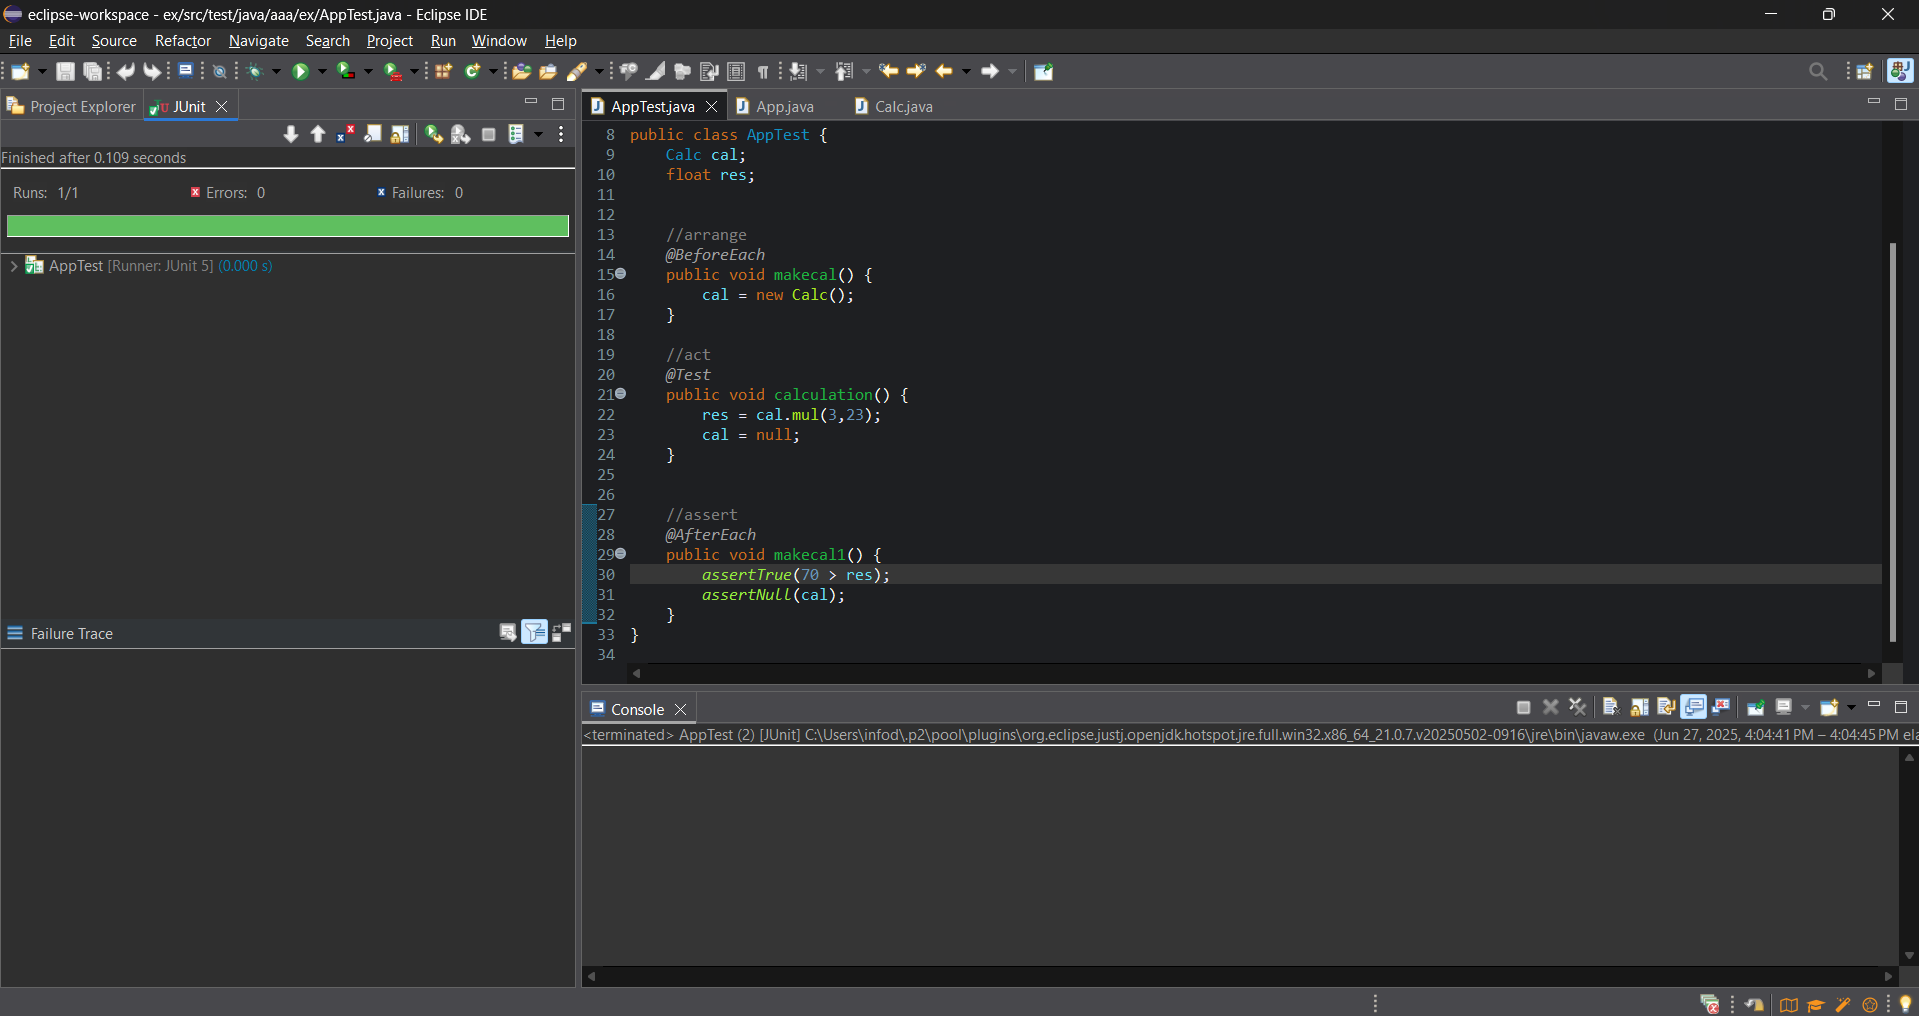
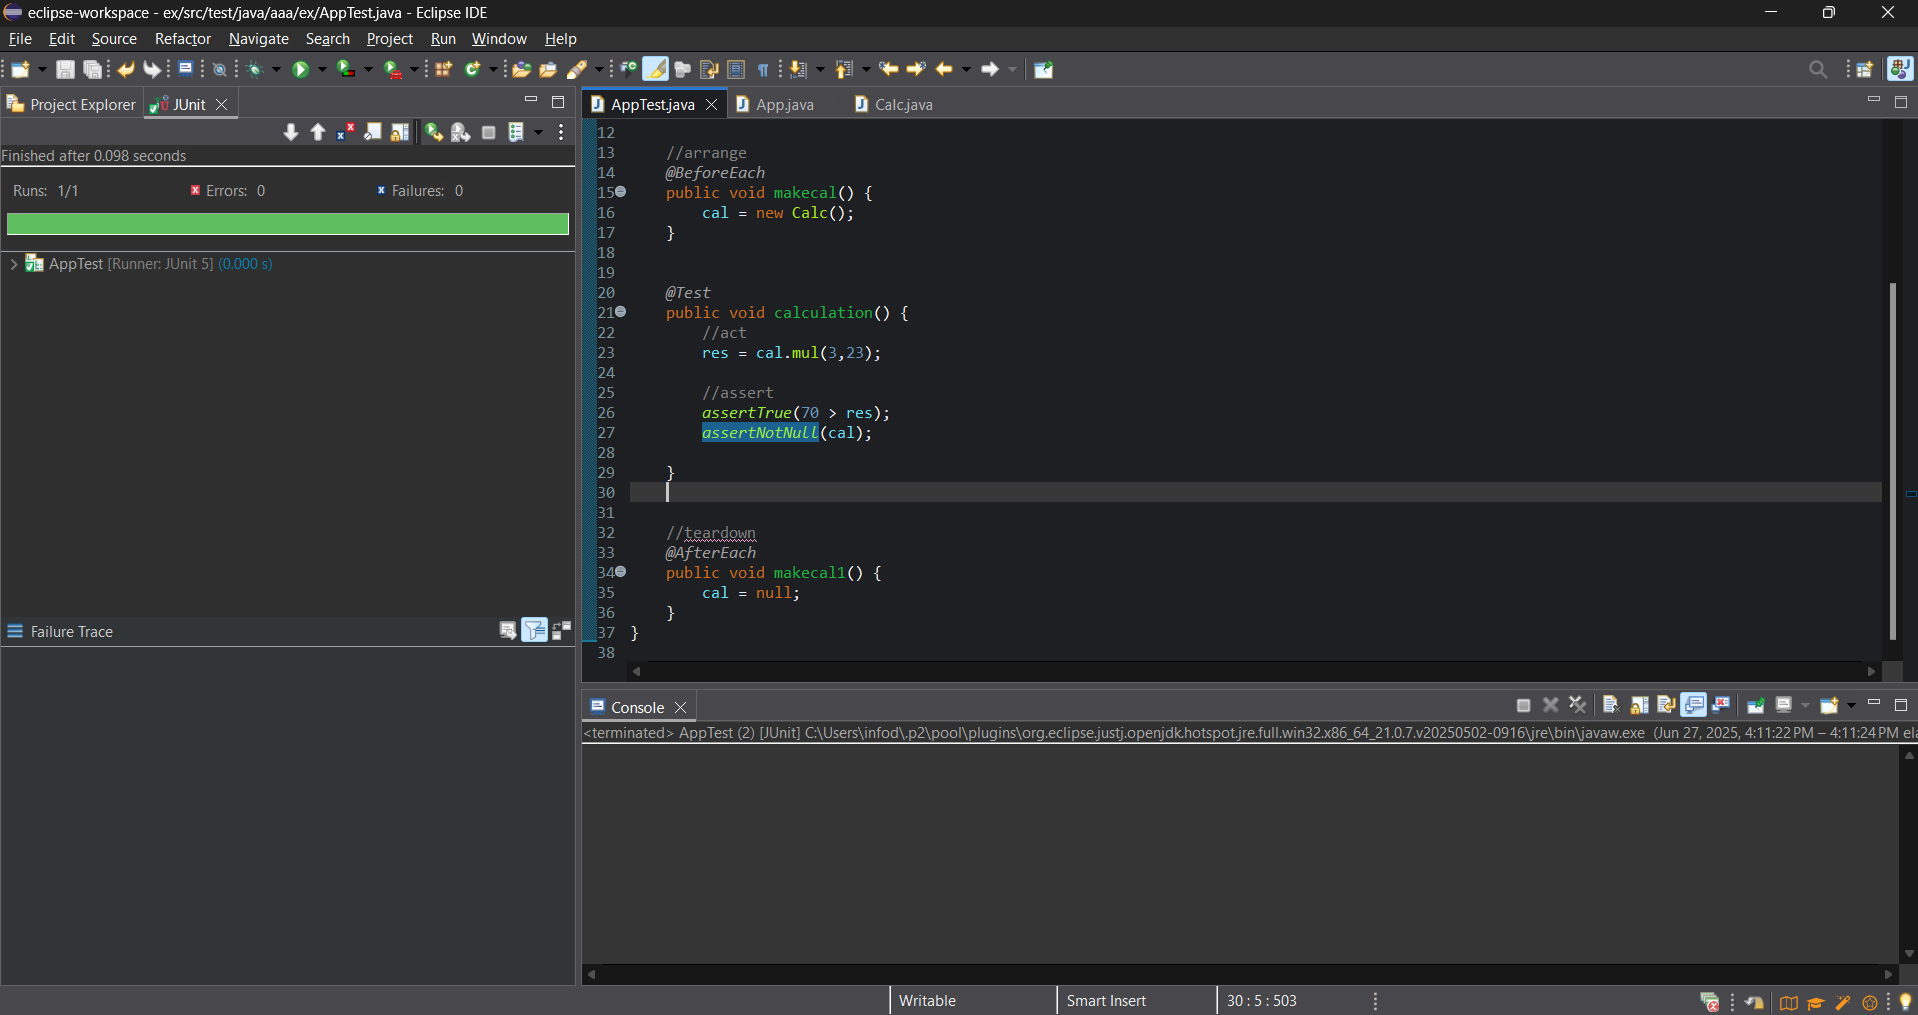
idk2

diff --git a/week2/Mockito/mockandstub/src/test/java/ex/mockandstub/AppTest.java b/week2/Mockito/mockandstub/src/test/java/ex/mockandstub/AppTest.java
@@ -1,0 +1,19 @@
+package ex.mockandstub;
+
+import org.junit.jupiter.api.Test;
+import org.mockito.Mockito;
+import static org.mockito.Mockito.*;
+import static org.junit.jupiter.api.Assertions.*;
+/**
+ * Unit test for simple App.
+ */
+public class AppTest { 
+		 @Test 
+		 public void testExternalApi() { 
+		 ExternalApi mockApi = Mockito.mock(ExternalApi.class); 
+		 when(mockApi.getData()).thenReturn("Mock Data"); 
+		 MyService service = new MyService(mockApi); 
+		 String result = service.fetchData(); 
+		 assertEquals("Mock Data", result); 
+		 } 
+}

diff --git a/week2/JUnit/AAA-pattern/ex/src/test/java/aaa/ex/AppTest.java b/week2/JUnit/AAA-pattern/ex/src/test/java/aaa/ex/AppTest.java
@@ -16,18 +16,22 @@ public class AppTest {
 		cal = new Calc();
 	}
 	
-	//act
+	
     @Test
     public void calculation() {
+    	//act
     	res = cal.mul(3,23);
-    	cal = null;
+    	
+    	//assert
+    	assertTrue(70 > res);
+		assertNotNull(cal);
+    	
     }
     
     
-    //assert
+    //teardown
     @AfterEach
 	public void makecal1() {
-		assertTrue(70 > res);
-		assertNull(cal);
+    	cal = null;	
 	}
 }

diff --git a/week2/Mockito/mockandstub/src/main/java/ex/mockandstub/MyService.java b/week2/Mockito/mockandstub/src/main/java/ex/mockandstub/MyService.java
@@ -1,0 +1,12 @@
+package ex.mockandstub;
+
+public class MyService {
+	ExternalApi api;
+	MyService(ExternalApi api){
+		this.api = api;
+	}
+	
+	public String fetchData(){
+		return this.api.getData();
+	}
+}

diff --git a/week2/Mockito/mockandstub/src/main/java/ex/mockandstub/App.java b/week2/Mockito/mockandstub/src/main/java/ex/mockandstub/App.java
@@ -1,0 +1,8 @@
+package ex.mockandstub;
+
+
+public class App {
+    public static void main(String[] args) {
+        System.out.println("Hello World!");
+    }
+}

diff --git a/week2/Mockito/mockandstub/src/main/java/ex/mockandstub/ExternalApi.java b/week2/Mockito/mockandstub/src/main/java/ex/mockandstub/ExternalApi.java
@@ -1,0 +1,7 @@
+package ex.mockandstub;
+
+public class ExternalApi {
+	public String getData() {
+		return "val";
+	}
+}
